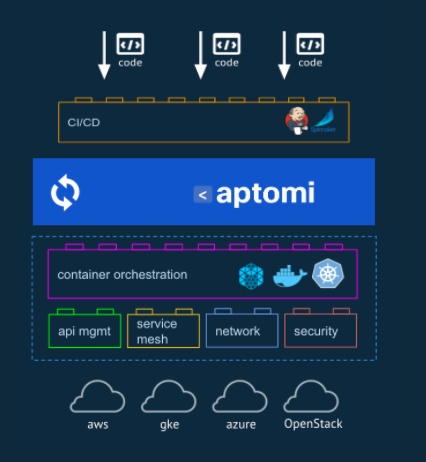
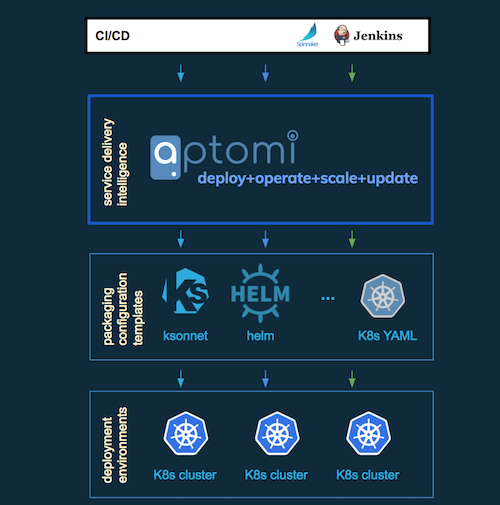
changed Aptomi overview/features and images

diff --git a/README.md b/README.md
@@ -7,16 +7,24 @@
 [![GitHub last commit](https://img.shields.io/github/last-commit/Aptomi/aptomi.svg)]()
 [![Slack Status](https://img.shields.io/badge/slack-join_channel-ff69b4.svg)](http://slack.aptomi.io)
 
-[Aptomi](http://aptomi.io) simplifies roll-out, operation and control of complex container-based applications. Instead of dealing with
-thousands of individual containers, Dev and Ops can now talk services. Service-based approach enables Dev to move
-faster, while providing control and insights/contextual visibility to Ops.
+[Aptomi](http://aptomi.io) simplifies roll-out, operation and control of container-based applications on k8s. It introduces a
+service-centric abstraction that allows Dev and Ops to collaborate asynchronously.  It enables teams to create and operate services,
+share them across the organization, and fully control their lifecycle. Changes and updates are executed with a goal of minimizing
+disruptive impact on depending services.
 
 It is particularly useful in environments with multiple teams, clouds and data centers, where intent-based management
 plays an important role in running large application infrastructure. Aptomi’s current focus is Kubernetes, but it's
 designed to work with any container runtime and container orchestration technologies.
 
+![What is Aptomi](images/aptomi-what-is.png)
+
 ## Demo
+
+### Asciinema
 [![asciicast](https://asciinema.org/a/k8ZpQTazoSaDV24fiLbG7DfT9.png)](https://asciinema.org/a/k8ZpQTazoSaDV24fiLbG7DfT9?speed=2)
+
+### Youtube (more detailed)
+[![youtube](http://img.youtube.com/vi/HL4RwoBnuTc/0.jpg)](http://www.youtube.com/watch?v=HL4RwoBnuTc)
 
 ## Table of contents
 <!-- START doctoc generated TOC please keep comment here to allow auto update -->
@@ -48,14 +56,15 @@ designed to work with any container runtime and container orchestration technolo
 <!-- END doctoc generated TOC please keep comment here to allow auto update -->
 
 ## Features & Benefits
-- **Easy way to deploy and manage complex applications**
-  - See [example](examples/twitter-analytics/diagram.png) of a multi-service application based entirely on containers
-- **Run on top of any container platform**
+- **Easy way to deploy and manage applications**
+  - See [example](examples/twitter-analytics/diagram.png) of a multi-service application for k8s
+- **Designed to run on top of any container platform**
   - k8s, OpenShift (with support coming for AWS ECS, GKE, Docker Datacenter, Mesos)
 - **Friendly for Dev and Ops**
-  - Keep using your existing application templates (Helm, k8s YAMLs, ksonnet, Ansible, etc)
-  - Speak services, not containers. Collaborate between orgs and rely on services published by other teams
-  - Easy changes to the running code -- seconds to propagate updated parameters, relocate the whole stack to another cluster, restrict access, etc
+  - Think applications and services, not infrastructure primitives
+  - Keep using your existing application templates (Helm, Ksonnet, k8s YAMLs, etc)
+  - Make real-time changes to the running code (change parameters, relocate the whole application w/ dependencies to another cluster, restrict access, etc)
+  - Minimizes disruption impact of change on depending services
 - **Continuous state enforcement**
   - Desired state of all services is rendered as a system and continuously validated/enforced 
   - Built-in service discovery ensures all dependencies always are up to date    
@@ -187,11 +196,6 @@ Check out Aptomi source code from the repo:
 mkdir -p $GOPATH/src/github.com/Aptomi
 cd $GOPATH/src/github.com/Aptomi
 git clone https://github.com/Aptomi/aptomi.git
-```
-
-Install Helm, Kubectl clients:
-```
-./tools/install-clients.sh
 ```
 
 In order to build Aptomi, you must first tell Glide to fetch all of its dependencies. It will read the list of
